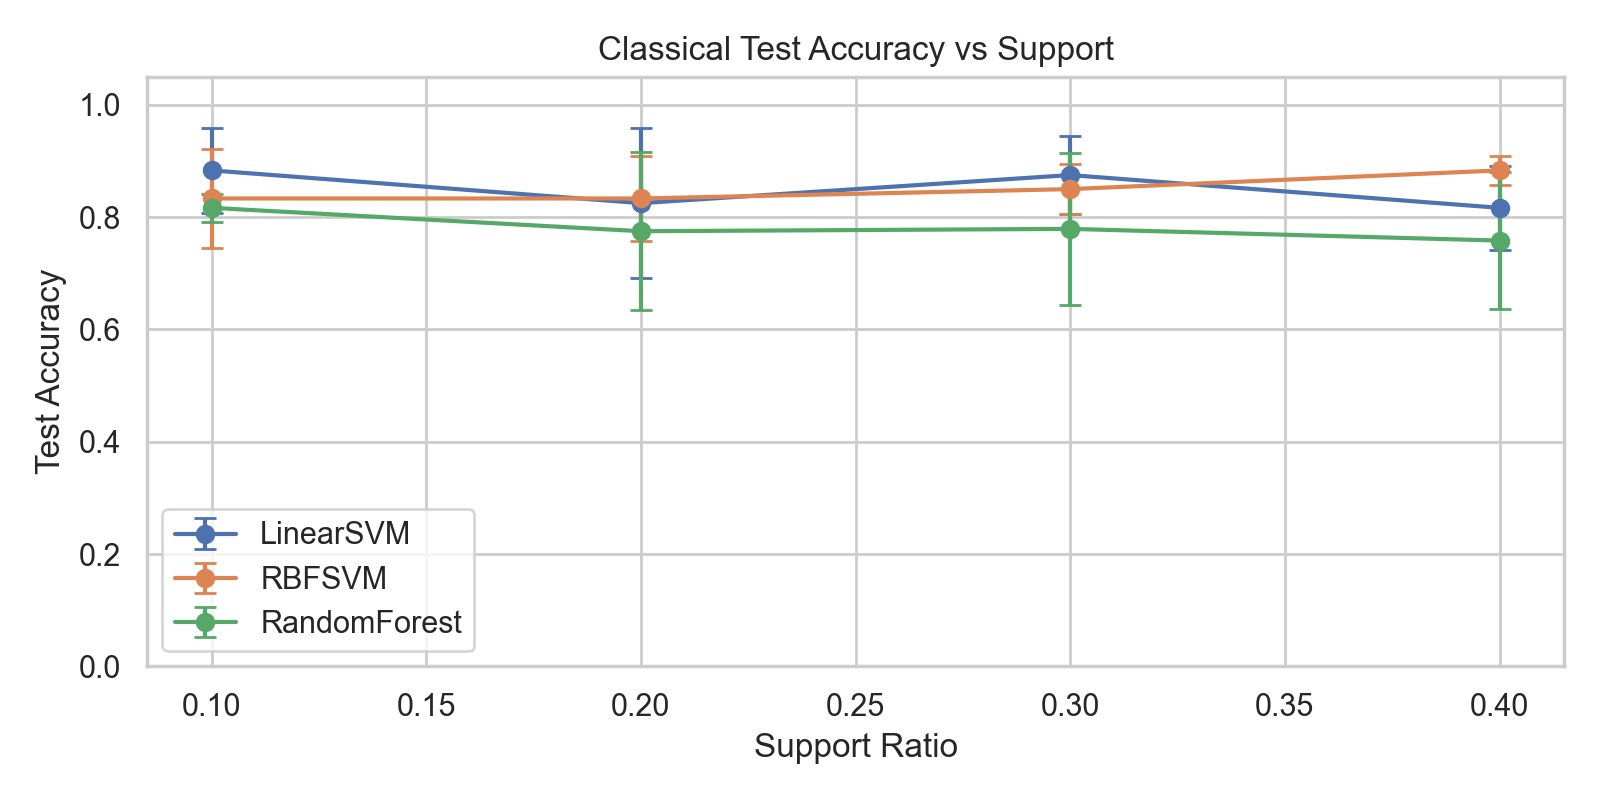
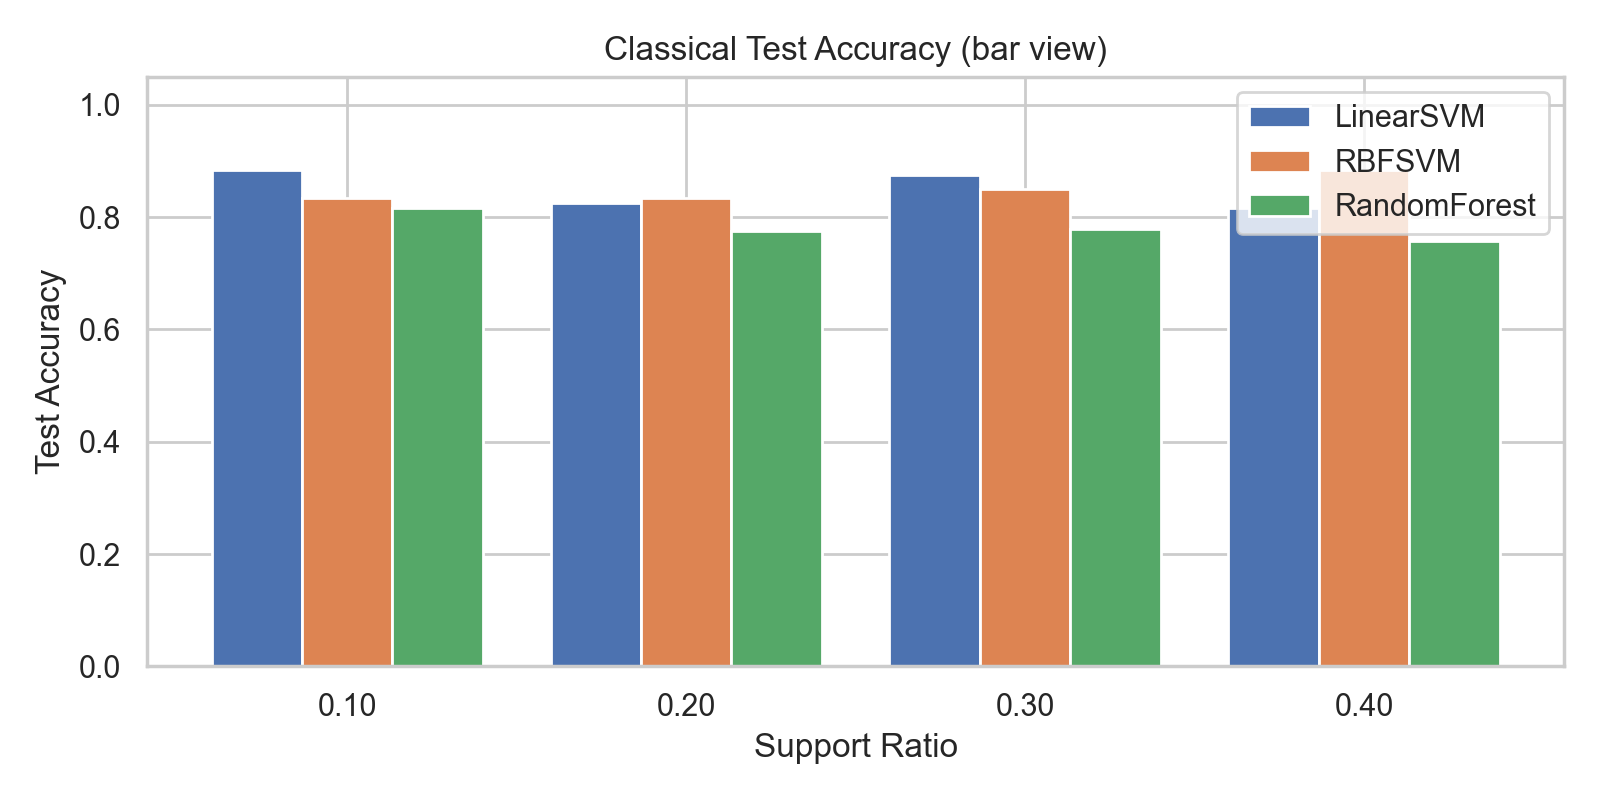
better graphs for representation

diff --git a/q3_comparison/compare_q1_q2.py b/q3_comparison/compare_q1_q2.py
@@ -11,6 +11,7 @@ from typing import Dict, List, Tuple
 import matplotlib.pyplot as plt
 import pandas as pd
 import seaborn as sns
+import numpy as np
 
 REPO_ROOT = Path(__file__).resolve().parents[1]
 Q1_ROOT = REPO_ROOT / "q1_frequent_subgraphs_classic_ml"
@@ -27,7 +28,7 @@ EFFICIENCY_DIR.mkdir(parents=True, exist_ok=True)
 sns.set_theme(style="whitegrid")
 
 QUALITY_METRICS = ("test_accuracy", "test_precision", "test_recall", "test_f1", "test_auc")
-EFFICIENCY_METRICS = ("preprocess_time_sec", "train_time_sec", "total_pipeline_time_sec", "test_inference_time_sec")
+EFFICIENCY_COMPONENTS = ("preprocess_time_sec", "train_time_sec", "test_inference_time_sec")
 
 
 def _parse_seed(name: str) -> int | None:
@@ -192,49 +193,121 @@ def summarize(df: pd.DataFrame) -> Tuple[pd.DataFrame, pd.DataFrame, pd.DataFram
     return summary, best_rows, model_summary, family_summary
 
 
+def _prepare_group_positions(num_groups: int, num_series: int, bar_width: float = 0.2):
+    x = np.arange(num_groups)
+    offsets = (np.arange(num_series) - (num_series - 1) / 2) * bar_width
+    return x, offsets, bar_width
+
+
 def plot_classical_support_metric(df: pd.DataFrame, metric: str) -> None:
     classic_df = df[df["family"] == "Classic"].dropna(subset=["support_ratio", metric])
     if classic_df.empty:
         return
-    agg = (
-        classic_df.groupby(["support_ratio", "approach"])[metric]
-        .agg(["mean", "std"])
-        .reset_index()
-    )
-    fig, ax = plt.subplots(figsize=(8, 4))
-    for model, group in agg.groupby("approach"):
-        ax.errorbar(
-            group["support_ratio"],
-            group["mean"],
-            yerr=group["std"],
-            marker="o",
-            capsize=4,
-            label=model,
+    supports = sorted(classic_df["support_ratio"].unique())
+    approaches = sorted(classic_df["approach"].unique())
+    fig_width = max(8, len(supports) * len(approaches) * 0.4)
+    fig, ax = plt.subplots(figsize=(fig_width, 4))
+    bar_width = 0.8 / len(approaches)
+    x = np.arange(len(supports))
+
+    for idx, approach in enumerate(approaches):
+        subset = (
+            classic_df[classic_df["approach"] == approach]
+            .groupby("support_ratio")[metric]
+            .mean()
         )
+        heights = [subset.get(support, np.nan) for support in supports]
+        ax.bar(
+            x + idx * bar_width,
+            heights,
+            width=bar_width,
+            label=approach,
+        )
+
+    ax.set_xticks(x + (len(approaches) - 1) * bar_width / 2)
+    ax.set_xticklabels([f"{s:.2f}" for s in supports])
     ax.set_xlabel("Support Ratio")
     ax.set_ylabel(metric.replace("_", " ").title())
     ax.set_ylim(0, 1.05)
-    ax.set_title(f"Classical {metric.replace('_', ' ').title()} vs Support")
+    ax.set_title(f"Classical {metric.replace('_', ' ').title()} (bar view)")
     ax.legend()
     fig.tight_layout()
     fig.savefig(QUALITY_DIR / f"classic_support_{metric}.png", dpi=200)
     plt.close(fig)
 
 
-def plot_metric_box(df: pd.DataFrame, metric: str, out_dir: Path, log_scale: bool = False) -> None:
-    metric_df = df.dropna(subset=[metric])
+def select_best_configs(df: pd.DataFrame) -> pd.DataFrame:
+    subset = df.dropna(subset=["val_accuracy"]).copy()
+    if subset.empty:
+        return subset
+    idx = subset.groupby(["approach", "seed"])["val_accuracy"].idxmax()
+    best_df = subset.loc[idx].copy()
+    return best_df
+
+
+def plot_quality_summary(best_df: pd.DataFrame, metric: str) -> None:
+    metric_df = best_df.dropna(subset=[metric])
     if metric_df.empty:
         return
-    fig, ax = plt.subplots(figsize=(8, 4))
-    sns.boxplot(data=metric_df, x="approach", y=metric, palette="Set3", ax=ax)
-    sns.stripplot(data=metric_df, x="approach", y=metric, color="black", size=2, alpha=0.4, ax=ax)
-    if log_scale:
-        ax.set_yscale("log")
+    approaches = sorted(metric_df["approach"].unique())
+    seeds = sorted(metric_df["seed"].unique())
+    bar_width = 0.15
+    x, offsets, bar_width = _prepare_group_positions(len(approaches), len(seeds), bar_width)
+    fig_width = max(8, len(approaches) * 0.8)
+    fig, ax = plt.subplots(figsize=(fig_width, 4))
+
+    for idx, seed in enumerate(seeds):
+        subset = metric_df[metric_df["seed"] == seed].set_index("approach")
+        heights = [subset.loc[app, metric] if app in subset.index else np.nan for app in approaches]
+        ax.bar(
+            x + offsets[idx],
+            heights,
+            width=bar_width,
+            label=f"Seed {seed}",
+        )
+
+    ax.set_xticks(x)
+    ax.set_xticklabels(approaches, rotation=20)
+    ax.set_ylim(0, 1.05)
     ax.set_ylabel(metric.replace("_", " ").title())
-    ax.set_title(f"{metric.replace('_', ' ').title()} distribution by model")
+    ax.set_title(f"{metric.replace('_', ' ').title()} (best config per seed)")
+    ax.legend()
     fig.tight_layout()
-    fig.savefig(out_dir / f"box_{metric}.png", dpi=200)
+    fig.savefig(QUALITY_DIR / f"best_{metric}.png", dpi=200)
     plt.close(fig)
+
+
+def plot_efficiency_components(best_df: pd.DataFrame) -> None:
+    if best_df.empty:
+        return
+    approaches = sorted(best_df["approach"].unique())
+    seeds = sorted(best_df["seed"].unique())
+    metrics = ["preprocess_time_sec", "train_time_sec", "test_inference_time_sec", "total_pipeline_time_sec"]
+    for metric in metrics:
+        metric_df = best_df.dropna(subset=[metric])
+        if metric_df.empty:
+            continue
+        x, offsets, bar_width = _prepare_group_positions(len(approaches), len(seeds))
+        fig_width = max(8, len(approaches) * 0.9)
+        fig, ax = plt.subplots(figsize=(fig_width, 4.5))
+        for idx, seed in enumerate(seeds):
+            subset = metric_df[metric_df["seed"] == seed].set_index("approach")
+            heights = [subset.loc[app, metric] if app in subset.index else np.nan for app in approaches]
+            ax.bar(
+                x + offsets[idx],
+                heights,
+                width=bar_width,
+                label=f"Seed {seed}",
+            )
+        ax.set_xticks(x)
+        ax.set_xticklabels(approaches, rotation=20)
+        ax.set_ylabel(metric.replace("_", " ").title() + " (s)")
+        ax.set_title(f"{metric.replace('_', ' ').title()} per Approach (best configs)")
+        ax.legend()
+        fig.tight_layout()
+        filename = metric.replace("_sec", "").replace("_", "") + "_bar.png"
+        fig.savefig(EFFICIENCY_DIR / filename, dpi=200)
+        plt.close(fig)
 
 
 def main() -> None:
@@ -246,11 +319,14 @@ def main() -> None:
     model_summary.to_csv(RESULTS_DIR / "summary_by_model.csv", index=False)
     family_summary.to_csv(RESULTS_DIR / "summary_by_family.csv", index=False)
 
+    best_df = select_best_configs(df)
+
     for metric in QUALITY_METRICS:
         plot_classical_support_metric(df, metric)
-        plot_metric_box(df, metric, QUALITY_DIR, log_scale=False)
-    for metric in EFFICIENCY_METRICS:
-        plot_metric_box(df, metric, EFFICIENCY_DIR, log_scale=True)
+        plot_quality_summary(best_df, metric)
+
+    plot_efficiency_components(best_df)
+    # Total time bars already included in efficiency components loop
 
     print("Saved aggregated comparison outputs to", RESULTS_DIR)
 
